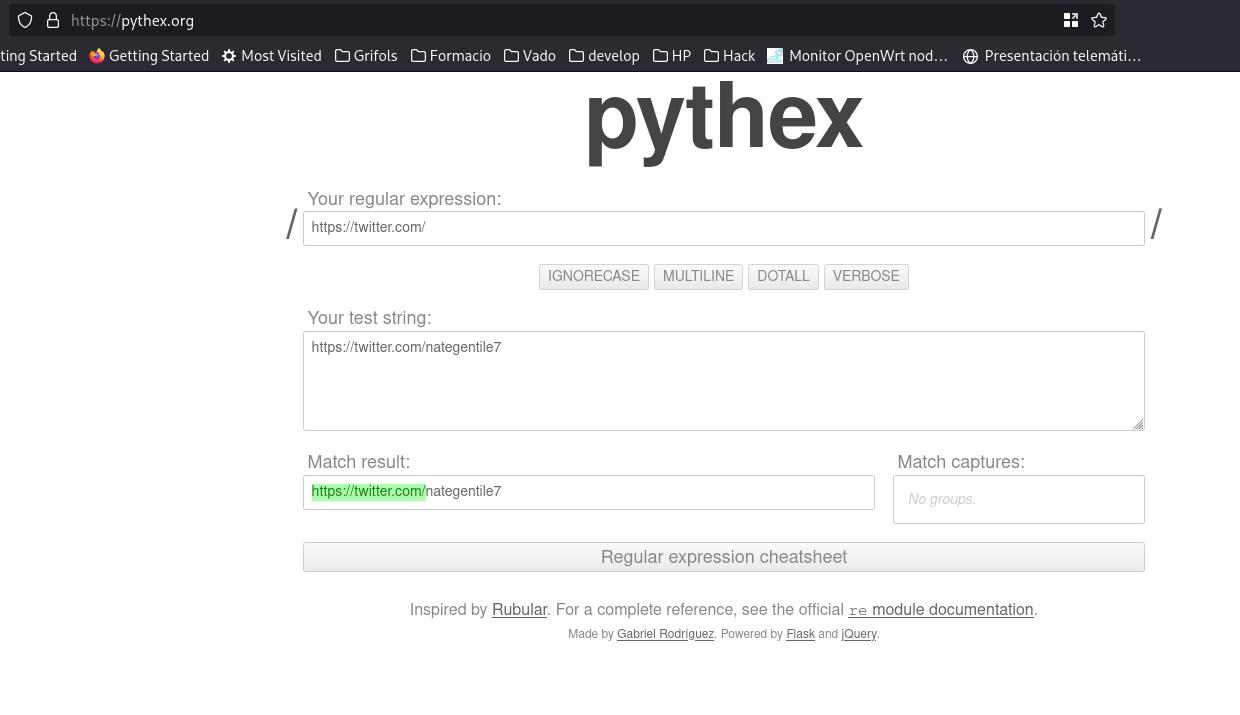
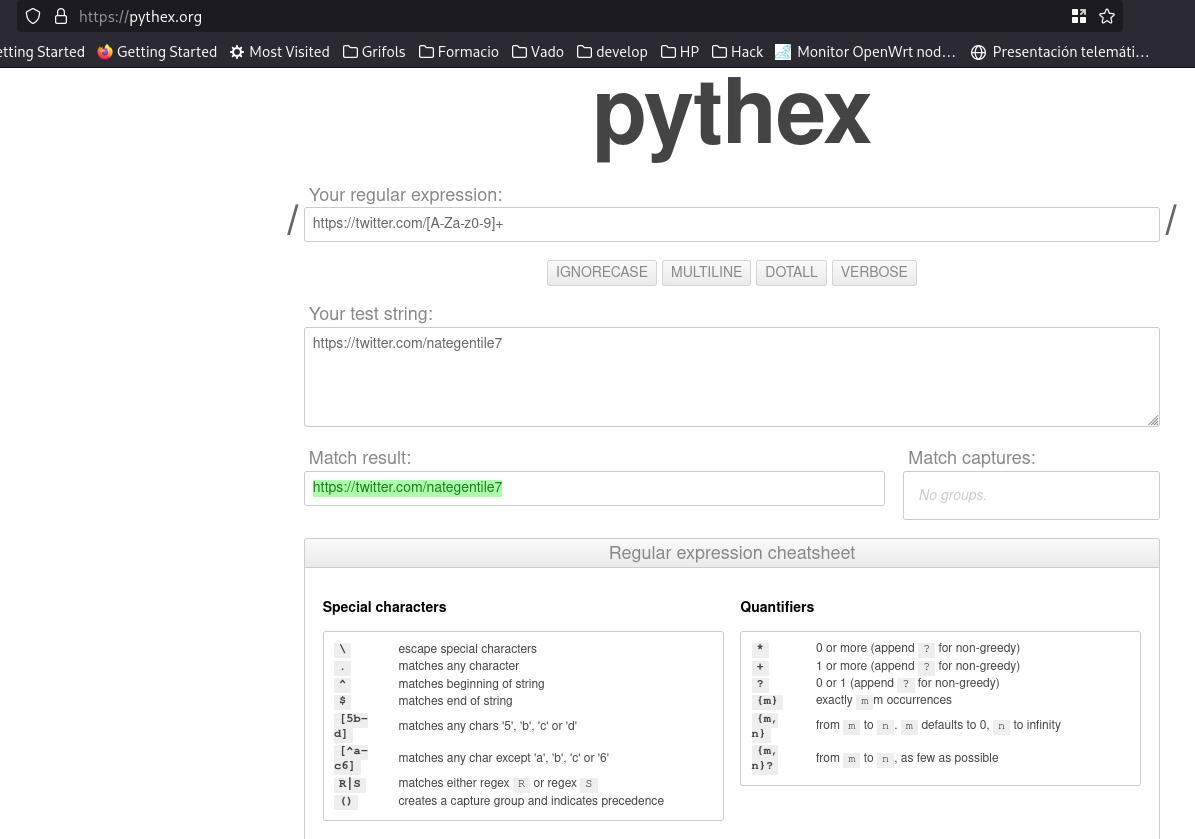
Add reghex pic

diff --git a/REY_DE_LAS_FUNCIONES.md b/REY_DE_LAS_FUNCIONES.md
@@ -415,4 +415,6 @@ En el siguiente ejemplo buscamos la string https://twitter.com/ en el texto http
 ![pythex_ex](IMG/pythex_ex.jpg)
 
 
+https://twitter.com/[A-Za-z0-9]+
+
 
